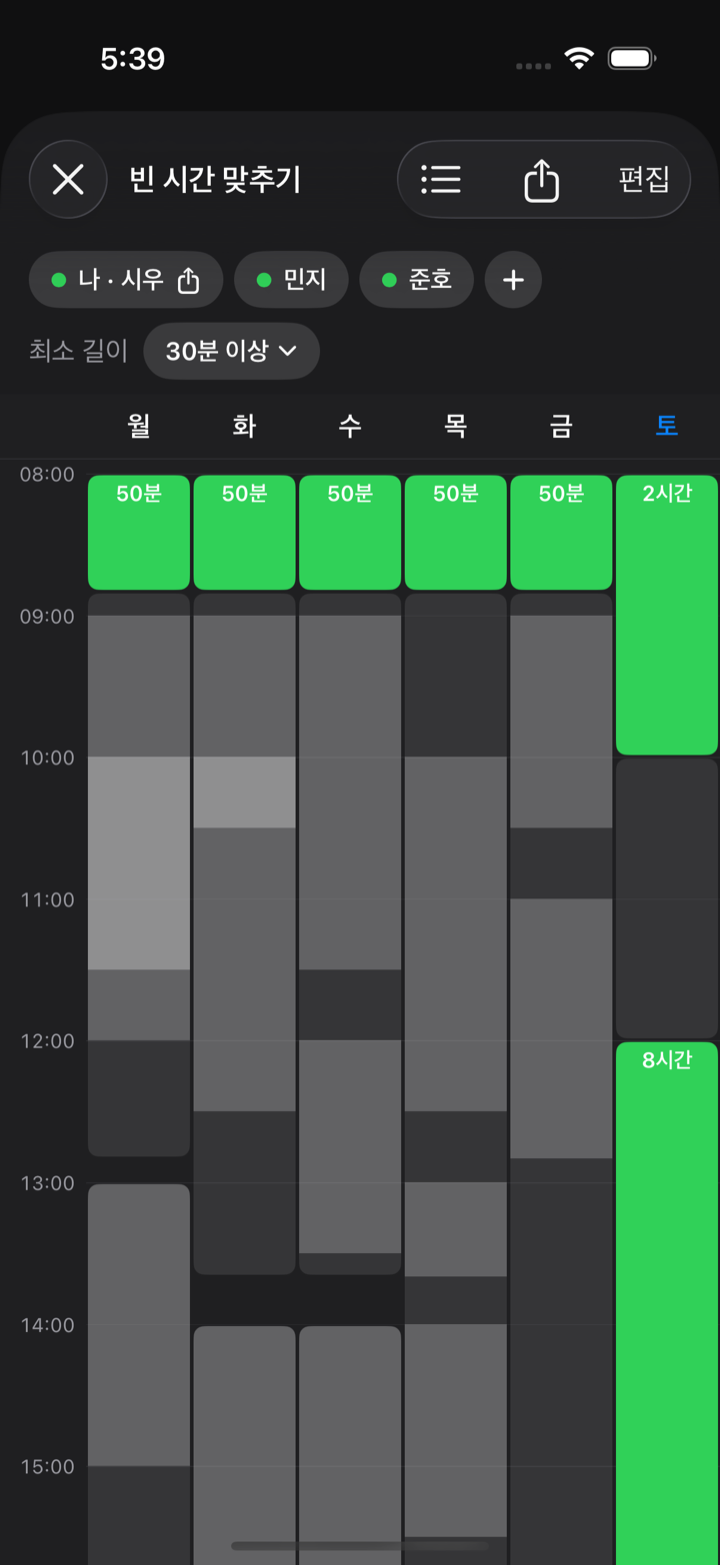
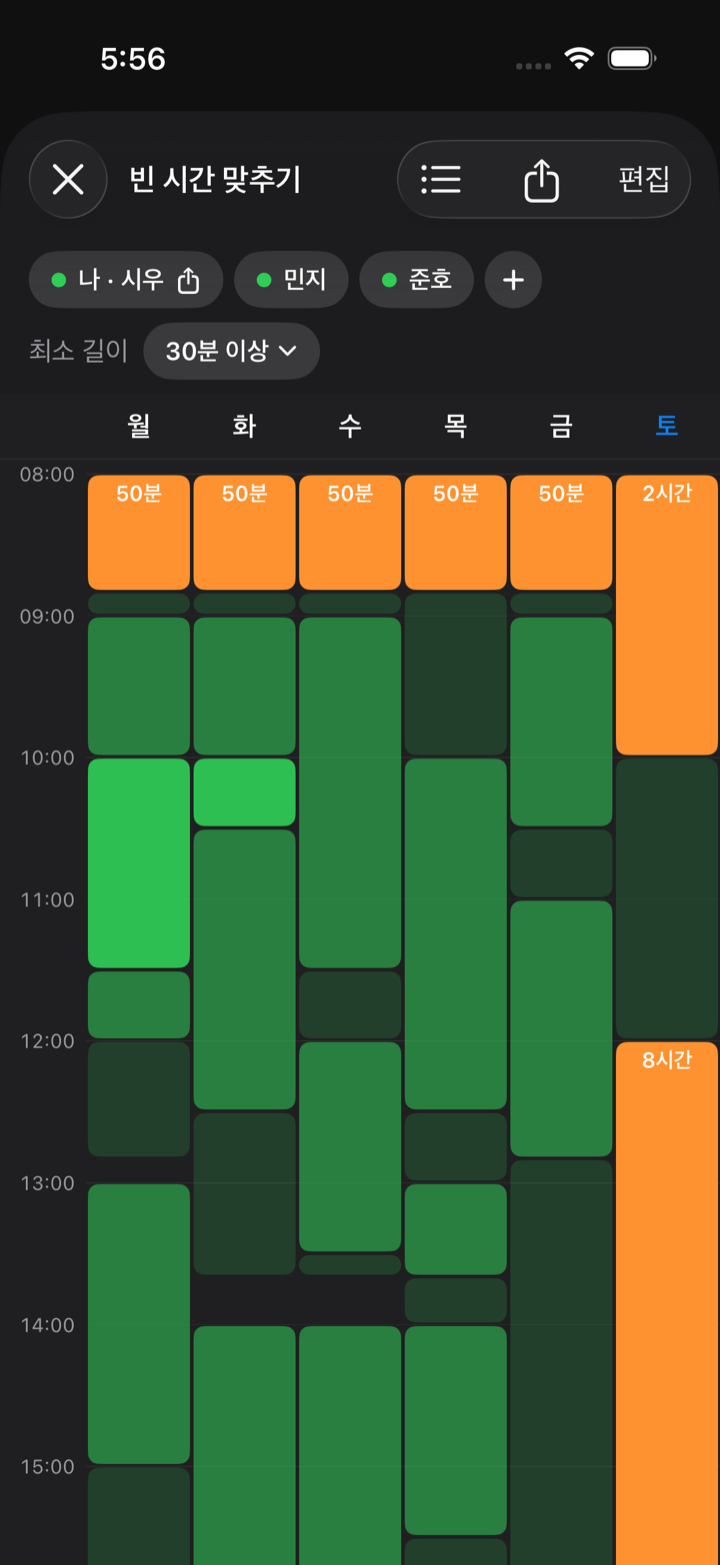
improve: blog — 빈 시간 밤 절을 초록 농도 · 주황 빈 칸 · 구간별 둥근 블록으로 갱신
Claude-Session: https://claude.ai/code/session_01Mk4f2Uk69XCSSEhNtHXYA3

diff --git a/src/content/blog/en/2026-09-28-timetable-free-time-finder.md b/src/content/blog/en/2026-09-28-timetable-free-time-finder.md
@@ -12,8 +12,8 @@ Open a timetable file a friend sent you, and the app now lays it over yours and 
 
 | Cell | Look |
 |---|---|
-| Everyone free (30 min or longer) | Green block with its length |
-| Someone busy | Gray, darker the more people are busy (changed that night) |
+| Everyone free (30 min or longer) | Green block with its length (orange since that night) |
+| Someone busy | Light gray (green shades since that night) |
 | Gaps shorter than 30 min | Left blank |
 
 Who is busy only shows up when you tap a gray cell. Tap a green block and a card shows the day, time, and length, with a Copy button for the group chat. Turn a person's chip off to see the hours that work without them.
@@ -55,19 +55,19 @@ The group case is where doing it by hand hurts most, and it is also where files 
 
 So the lock on friend chips is gone, along with the group free time card on the paywall. The existing reasons to pay (more than one timetable, alarms, custom colors) carry that on their own. The only limit left is the same for everyone: up to ten saved friends (later that night: ten timetables in total, yours included). A newly received friend is switched on, and everyone else stays as they were, so each file that comes in adds one more person to the comparison.
 
-## That night — busy hours get darker with every person who is busy
+## That night — busy hours turn a deeper green with every busy person, free hours turn orange
 
 A single gray made "one of five is busy" look the same as "all five are busy". With a group, the useful answer is often "this works if one person moves something", and a flat gray hid it. Busy hours are now shaded by how many people are busy, with as many steps as people switched on.
 
-![The darkest band on Monday selected, with the card listing everyone who is busy](/blog/timetable-free-time-finder/busy-band-selected.png)
+![The deepest green band on Monday selected, with the card listing everyone who is busy; shared free time in orange](/blog/timetable-free-time-finder/busy-band-selected.png)
 
-The first idea was light green layers. Green already means "everyone free" on this screen, so the darkest green would have meant the opposite of the green blocks. Gray keeps green to one meaning.
+The colors moved twice. Green used to mean "everyone free", so we tried gray shades first. But a chip that is switched on already shows a green dot. So green now means people, their busy hours stacking up, and the shared free blocks moved to orange. Blue was out because the timetable grid uses it for editing, and gray blended into the lightest green. One color, one meaning.
 
-Instead of stacking translucent blocks (opacity doesn't add up evenly, and block edges show through), the app merges each person's busy hours, cuts the day wherever someone starts or stops being busy, and counts. The outer shape stays one rounded block with shaded bands inside. The shade is the label color at increasing opacity, so dark mode brightens instead.
+Instead of stacking translucent blocks (opacity doesn't add up evenly, and edges show through), the app merges each person's busy hours, cuts the day wherever someone starts or stops being busy, and counts. Each stretch is its own rounded block with the same gap and corners as the free blocks. Square bands inside one block looked harsh.
 
-![Dark mode, busier bands are lighter gray](/blog/timetable-free-time-finder/busy-heat-dark.png)
+![Dark mode, busier stretches are brighter green](/blog/timetable-free-time-finder/busy-heat-dark.png)
 
-Taps work per band now. Tap one and the card splits the group: who is busy, who is free, in that exact stretch.
+Taps work per stretch now. Tap one and the card splits the group: who is busy, who is free, in that exact stretch.
 
 The comparison is capped at ten timetables including your own, for both new friend files and adding another of your timetables. A friend re-sending their timetable still just updates their chip.
 
